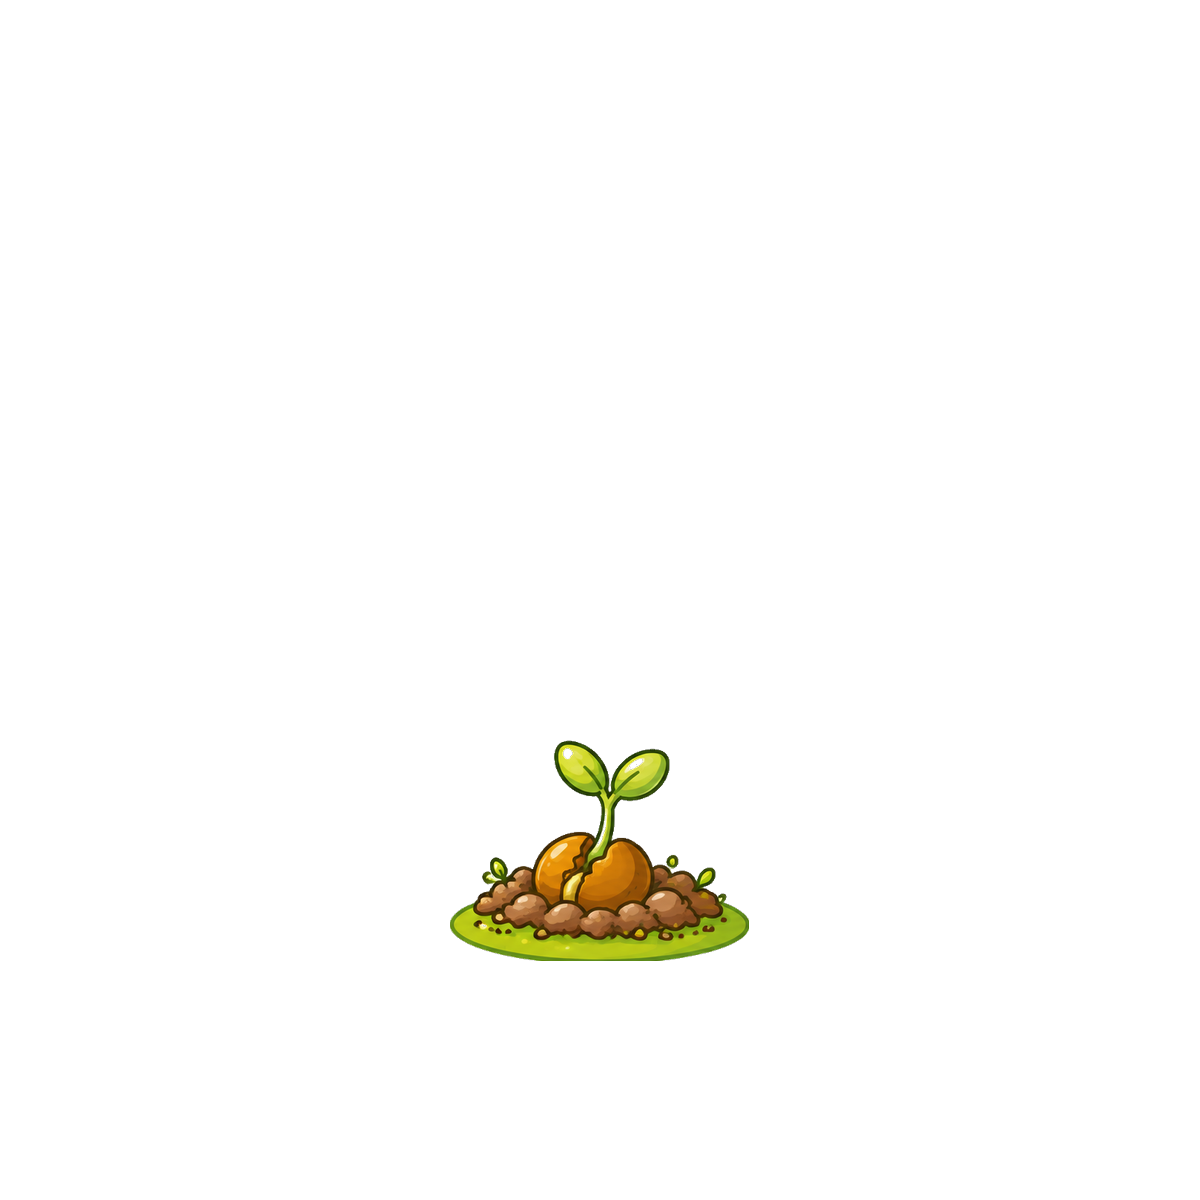
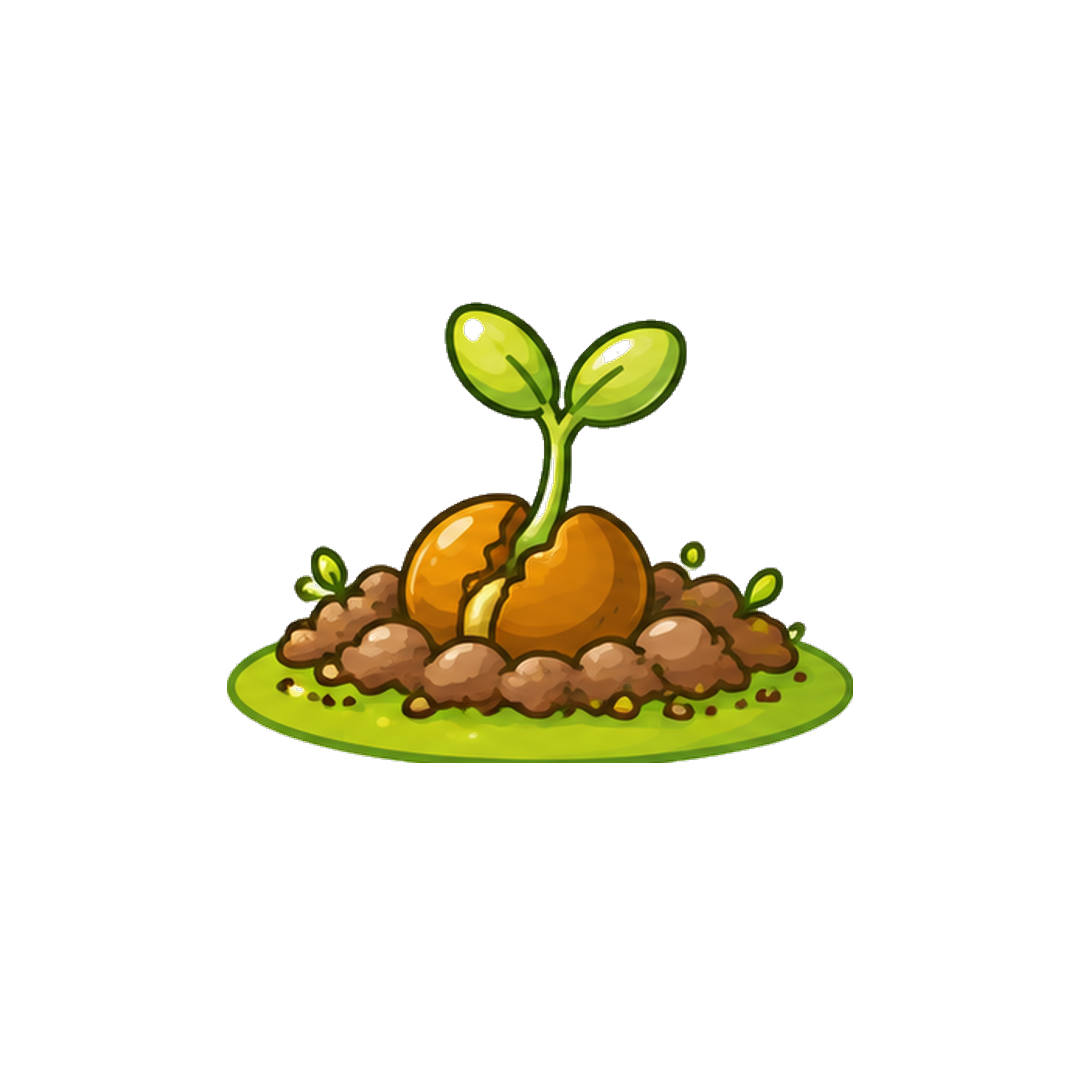
Bump tree image cache version

Changed region(s): [[0.2139, 0.275, 0.7944, 0.825]]

diff --git a/src/App.jsx b/src/App.jsx
@@ -1217,7 +1217,7 @@ function FocusMode({
             <img
               key={stage}
               className={index === displayedTreeStage ? "is-visible" : ""}
-              src={`/images/tree/tree-${stage}.png?v=2`}
+              src={`/images/tree/tree-${stage}.png?v=3`}
               alt=""
               aria-hidden="true"
             />